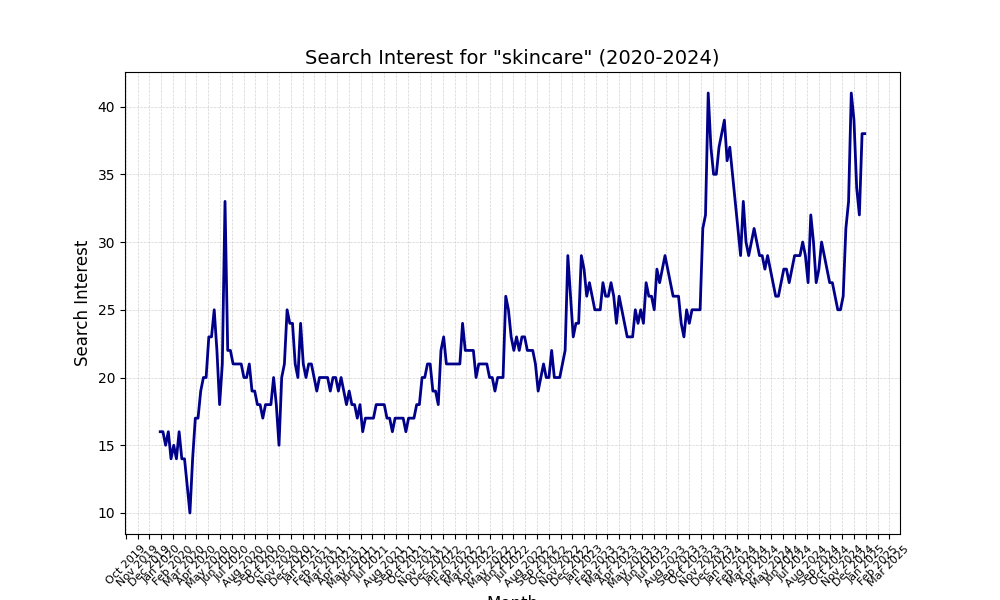
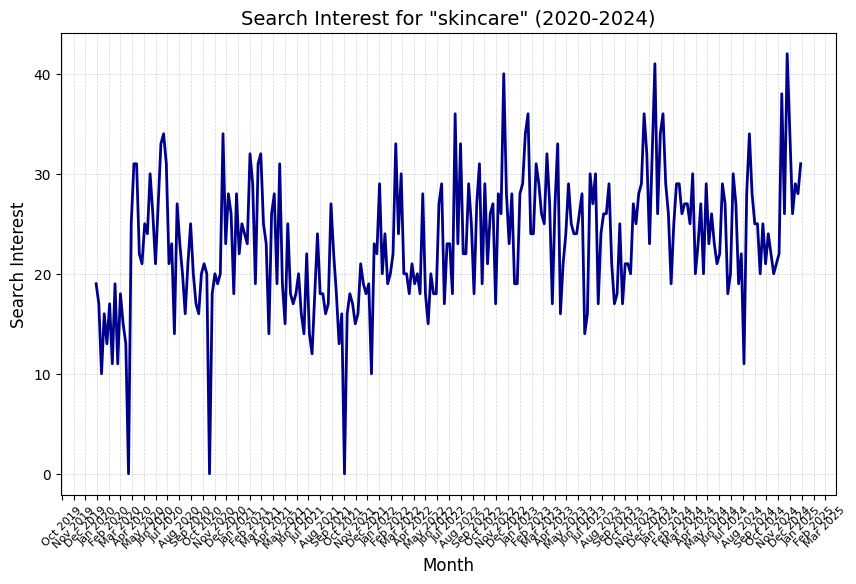
Adjust x-axis tick mark labels and formatting for trend over time plots.

Changed region(s): [[0.0, 0.0, 1.0, 1.0], [0.0304, 0.1233, 0.0911, 0.1541]]

diff --git a/analytics/plot-time-series/plot_search_over_time.py b/analytics/plot-time-series/plot_search_over_time.py
@@ -10,26 +10,57 @@ df = pd.read_csv("/Users/gracebeste/documents/trends-sunscreen-analysis/analytic
 # Set 'week_start' as the index
 df.set_index('week_start', inplace=True)
 
+# Extract year and month for color-coding
+df['year'] = df.index.year
+df['month'] = df.index.strftime('%b')  # Abbreviated month names (Jan, Feb, etc.)
+
+# Assign unique colors to each year (for the x-axis tick mark labels)
+import seaborn as sns
+years = sorted(df['year'].unique())  
+year_colors = sns.color_palette("husl", len(years))  # Generates distinct colors
+year_color_map = {year: color for year, color in zip(years, year_colors)}
+
 # Identify search-related columns
-excluded_columns = {"week_start", "tempmax", "uvindex"} 
+excluded_columns = {"week_start", "tempmax", "uvindex", "year", "month"} 
 search_terms = [col for col in df.columns if col not in excluded_columns]
 
+# Create function to loop through search terms:
 def plot_trend_over_time(term):
     """Create a line plot showing the trend of search interest over time."""
-
+    
+    # Create plot
     fig, ax = plt.subplots(figsize=(10, 6))
     ax.plot(df.index, df[term], color='darkblue', linewidth=2, label=term)
 
+    # Format x-axis tick mark labels
     ax.xaxis.set_major_locator(mdates.MonthLocator())
-    ax.xaxis.set_major_formatter(mdates.DateFormatter('%b %Y'))
-    plt.xticks(rotation=45, fontsize=8)
+    ax.xaxis.set_major_formatter(mdates.DateFormatter('%b')) # Only show month names
 
+    # Modify tick labels to color-code them by year
+    tick_labels = [tick.get_text() for tick in ax.get_xticklabels()]
+    tick_dates = [mdates.num2date(tick) for tick in ax.get_xticks()]  # Convert tick positions to dates
+
+    for label, tick_date in zip(ax.get_xticklabels(), tick_dates):
+        year = tick_date.year
+        label.set_color(year_color_map.get(year, 'black'))  # Assign color based on year
+
+    # Adjust label visibility
+    plt.xticks(rotation=45, fontsize=8)
+    plt.subplots_adjust(bottom=0.15)  # Avoid cutoff issues for x-axis title
+
+    # Add labels and title, adjust plot formatting
     plt.xlabel('Month', fontsize=12)
     plt.ylabel('Search Interest', fontsize=12)
     plt.title(f'Search Interest for "{term}" (2020-2024)', fontsize=14)
     plt.grid(color='lightgray', linestyle='--', linewidth=0.5)
 
-    plt.savefig(f"figures/plot-time-series/trend_{term}.png")
+    # Add a legend to show which colors represent which years
+    legend_patches = [plt.Line2D([0], [0], color=color, lw=4, label=str(year)) for year, color in year_color_map.items()]
+    plt.legend(handles=legend_patches, title="Year", fontsize=10, loc="upper left")
+
+    # Save the file and ensure there are no spaces in the file name
+    filename = f"figures/plot-time-series/trend_{term.replace(' ', '_')}.png"
+    plt.savefig(filename, bbox_inches='tight')
     plt.show()
     plt.close()
 
